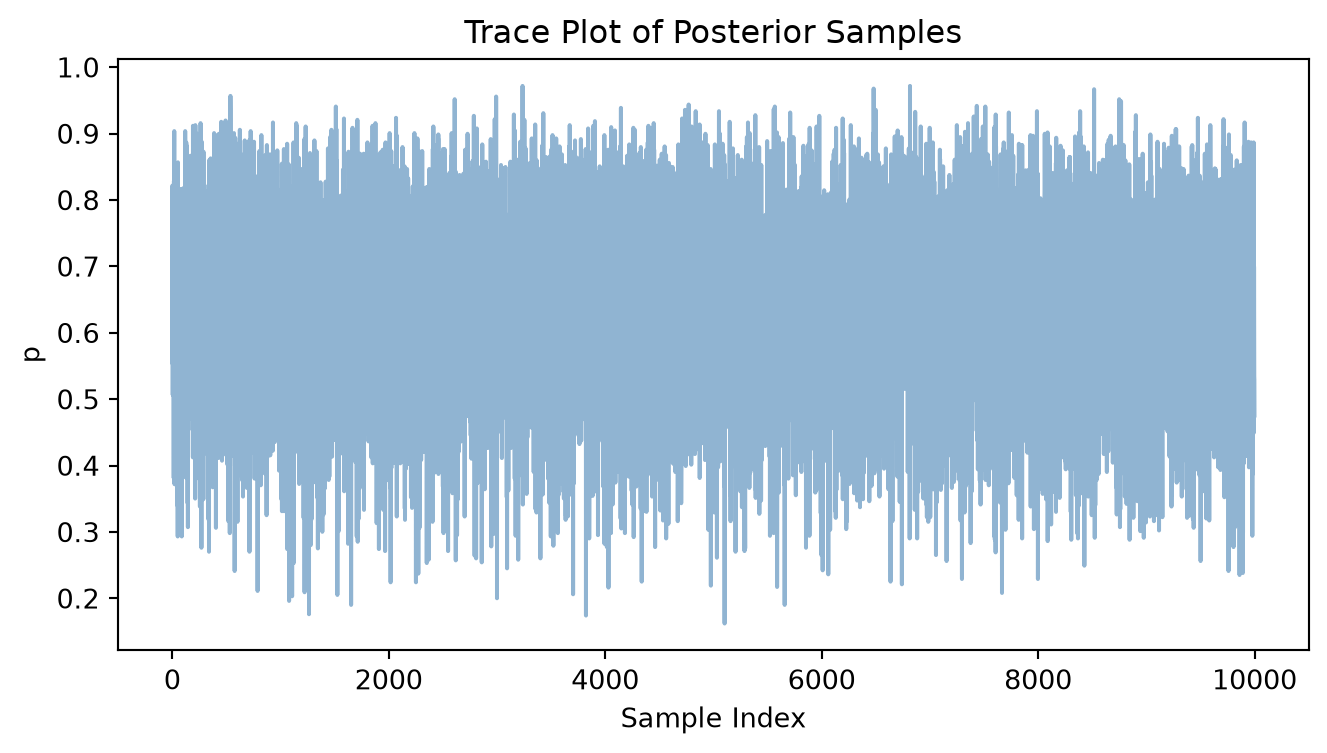
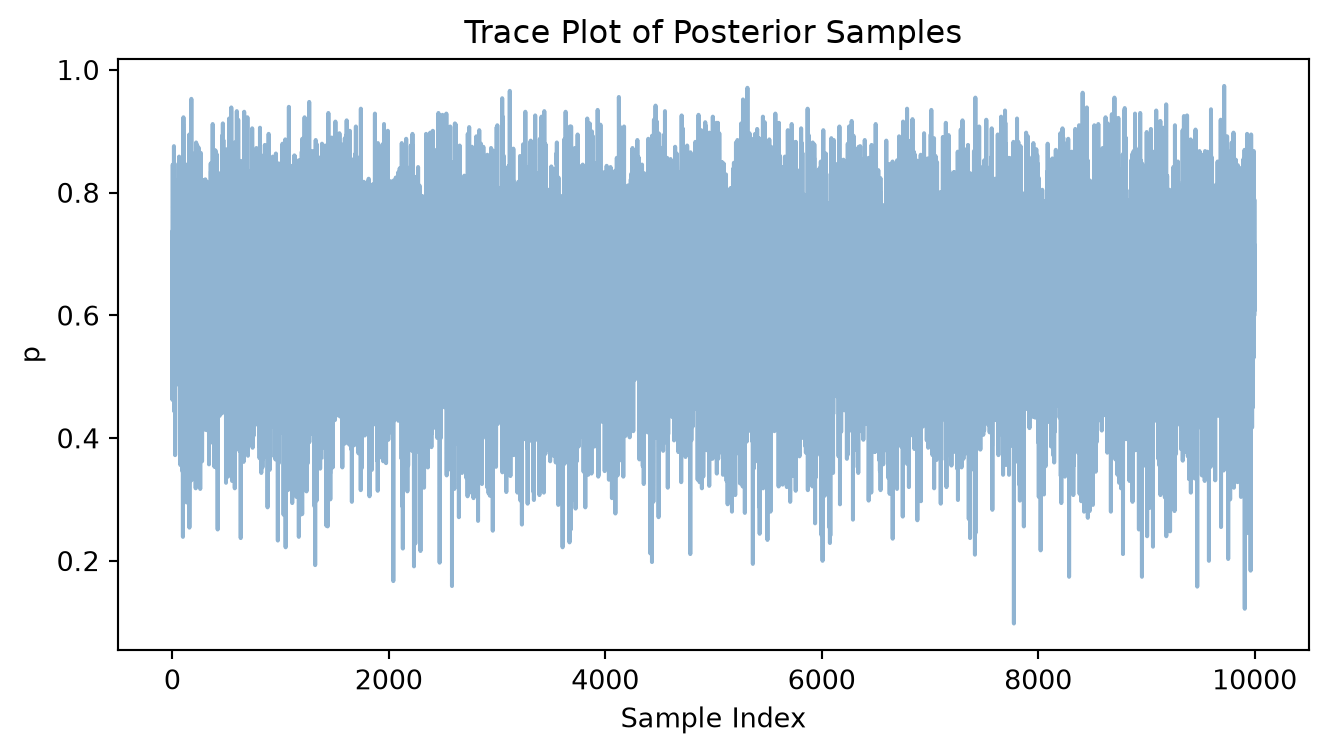
Exercise Updates

diff --git a/docs/lectures/chapter3.html b/docs/lectures/chapter3.html
@@ -326,6 +326,12 @@ window.Quarto = {
  <span class="menu-text">16: The Central Limit Therorem</span></a>
   </div>
 </li>
+          <li class="sidebar-item">
+  <div class="sidebar-item-container"> 
+  <a href="../lectures/conditional_probability_2.html" class="sidebar-item-text sidebar-link">
+ <span class="menu-text">17: Conditional Probability Revisted</span></a>
+  </div>
+</li>
       </ul>
   </li>
         <li class="sidebar-item sidebar-item-section">
@@ -470,7 +476,7 @@ window.Quarto = {
 <section id="section" class="level1">
 <h1>3.1</h1>
 <p>Here is the posterior for the globe tossing example from chapter 2, computed using the grid approximation method:</p>
-<div id="e3135c8b" class="cell" data-execution_count="1">
+<div id="0315c3b8" class="cell" data-execution_count="1">
 <div class="code-copy-outer-scaffold"><div class="sourceCode cell-code" id="cb1"><pre class="sourceCode python code-with-copy"><code class="sourceCode python"><span id="cb1-1"><a href="#cb1-1" aria-hidden="true" tabindex="-1"></a><span class="im">import</span> numpy <span class="im">as</span> np</span>
 <span id="cb1-2"><a href="#cb1-2" aria-hidden="true" tabindex="-1"></a><span class="im">from</span> scipy.stats <span class="im">import</span> binom, gaussian_kde</span>
 <span id="cb1-3"><a href="#cb1-3" aria-hidden="true" tabindex="-1"></a></span>
@@ -484,11 +490,11 @@ window.Quarto = {
 <span id="cb1-11"><a href="#cb1-11" aria-hidden="true" tabindex="-1"></a>posterior <span class="op">=</span> posterior <span class="op">/</span> np.<span class="bu">sum</span>(posterior)</span></code></pre></div><button title="Copy to Clipboard" class="code-copy-button"><i class="bi"></i></button></div>
 </div>
 <p>We can draw 10,000 samples from the posterior distribution using the <code>np.random.choice()</code> function, which allows us to sample from a discrete distribution defined by the posterior probabilities.</p>
-<div id="eb464c57" class="cell" data-execution_count="2">
+<div id="dc9b4af0" class="cell" data-execution_count="2">
 <div class="code-copy-outer-scaffold"><div class="sourceCode cell-code" id="cb2"><pre class="sourceCode python code-with-copy"><code class="sourceCode python"><span id="cb2-1"><a href="#cb2-1" aria-hidden="true" tabindex="-1"></a>samples <span class="op">=</span> np.random.choice(p_grid, size<span class="op">=</span><span class="dv">10000</span>, replace<span class="op">=</span><span class="va">True</span>, p<span class="op">=</span>posterior)</span></code></pre></div><button title="Copy to Clipboard" class="code-copy-button"><i class="bi"></i></button></div>
 </div>
 <p>Plotting the samples gives us:</p>
-<div id="05cc8b23" class="cell" data-execution_count="3">
+<div id="92de81f5" class="cell" data-execution_count="3">
 <div class="code-copy-outer-scaffold"><div class="sourceCode cell-code" id="cb3"><pre class="sourceCode python code-with-copy"><code class="sourceCode python"><span id="cb3-1"><a href="#cb3-1" aria-hidden="true" tabindex="-1"></a><span class="im">import</span> matplotlib.pyplot <span class="im">as</span> plt</span>
 <span id="cb3-2"><a href="#cb3-2" aria-hidden="true" tabindex="-1"></a></span>
 <span id="cb3-3"><a href="#cb3-3" aria-hidden="true" tabindex="-1"></a>plt.figure(figsize<span class="op">=</span>(<span class="dv">8</span>, <span class="dv">4</span>))</span>
@@ -506,7 +512,7 @@ window.Quarto = {
 </div>
 </div>
 <p>To see the shape of our estimated posterior distribution, we can use a kernel density estimate (KDE) to visualize the distribution of the samples:</p>
-<div id="c1591cad" class="cell" data-execution_count="4">
+<div id="ce0f916d" class="cell" data-execution_count="4">
 <div class="code-copy-outer-scaffold"><div class="sourceCode cell-code" id="cb4"><pre class="sourceCode python code-with-copy"><code class="sourceCode python"><span id="cb4-1"><a href="#cb4-1" aria-hidden="true" tabindex="-1"></a><span class="kw">def</span> estimate_posterior_density(samples, grid<span class="op">=</span><span class="va">None</span>):</span>
 <span id="cb4-2"><a href="#cb4-2" aria-hidden="true" tabindex="-1"></a>    <span class="co">"""</span></span>
 <span id="cb4-3"><a href="#cb4-3" aria-hidden="true" tabindex="-1"></a><span class="co">    Estimates the density of posterior samples using Gaussian KDE.</span></span>
@@ -556,7 +562,7 @@ window.Quarto = {
 <section id="easy" class="level2">
 <h2 class="anchored" data-anchor-id="easy">Easy</h2>
 <p>A Python version of the code in the text is:</p>
-<div id="ccb39274" class="cell" data-execution_count="5">
+<div id="6ecf0dbd" class="cell" data-execution_count="5">
 <div class="code-copy-outer-scaffold"><div class="sourceCode cell-code" id="cb5"><pre class="sourceCode python code-with-copy"><code class="sourceCode python"><span id="cb5-1"><a href="#cb5-1" aria-hidden="true" tabindex="-1"></a><span class="im">import</span> numpy <span class="im">as</span> np</span>
 <span id="cb5-2"><a href="#cb5-2" aria-hidden="true" tabindex="-1"></a><span class="im">from</span> scipy.stats <span class="im">import</span> binom</span>
 <span id="cb5-3"><a href="#cb5-3" aria-hidden="true" tabindex="-1"></a></span>
@@ -586,7 +592,7 @@ window.Quarto = {
 <p><br>
 </p>
 <p>With two helper functions to make calculating the questions involving intervals easier:</p>
-<div id="3c382d18" class="cell" data-execution_count="6">
+<div id="a2991b34" class="cell" data-execution_count="6">
 <div class="code-copy-outer-scaffold"><div class="sourceCode cell-code" id="cb6"><pre class="sourceCode python code-with-copy"><code class="sourceCode python"><span id="cb6-1"><a href="#cb6-1" aria-hidden="true" tabindex="-1"></a><span class="kw">def</span> percentile_interval(samples, probability):</span>
 <span id="cb6-2"><a href="#cb6-2" aria-hidden="true" tabindex="-1"></a>    <span class="co">"""</span></span>
 <span id="cb6-3"><a href="#cb6-3" aria-hidden="true" tabindex="-1"></a><span class="co">    Return an equal-tailed posterior interval</span></span>
@@ -675,7 +681,7 @@ Click to show answer
 </summary>
 <p>What we want is <span class="math inline">P(p&lt;0.2\mid W=6)</span>.</p>
 <p>Since our samples are drawn from the posterior, we can estimate this probability by calculating the fraction of samples satisfying <span class="math inline">p&lt;0.2</span>:</p>
-<div id="91d83626" class="cell" data-execution_count="7">
+<div id="34b6d0a3" class="cell" data-execution_count="7">
 <div class="code-copy-outer-scaffold"><div class="sourceCode cell-code" id="cb7"><pre class="sourceCode python code-with-copy"><code class="sourceCode python"><span id="cb7-1"><a href="#cb7-1" aria-hidden="true" tabindex="-1"></a><span class="bu">print</span>(np.mean(samples <span class="op">&lt;</span> <span class="fl">0.2</span>))</span></code></pre></div><button title="Copy to Clipboard" class="code-copy-button"><i class="bi"></i></button></div>
 <div class="cell-output cell-output-stdout">
 <pre><code>0.0013</code></pre>
@@ -696,7 +702,7 @@ Click to show answer
 <summary>
 Click to show answer
 </summary>
-<div id="14f55146" class="cell" data-execution_count="8">
+<div id="f2c6e0ac" class="cell" data-execution_count="8">
 <div class="code-copy-outer-scaffold"><div class="sourceCode cell-code" id="cb9"><pre class="sourceCode python code-with-copy"><code class="sourceCode python"><span id="cb9-1"><a href="#cb9-1" aria-hidden="true" tabindex="-1"></a><span class="bu">print</span>(np.mean(samples <span class="op">&gt;</span> <span class="fl">0.8</span>))</span></code></pre></div><button title="Copy to Clipboard" class="code-copy-button"><i class="bi"></i></button></div>
 <div class="cell-output cell-output-stdout">
 <pre><code>0.1155</code></pre>
@@ -711,14 +717,14 @@ Click to show answer
 Click to show answer
 </summary>
 <p>We have a few ways to approach this problem. Two solutions are using complements:</p>
-<div id="f0081ab7" class="cell" data-execution_count="9">
+<div id="dfa14dec" class="cell" data-execution_count="9">
 <div class="code-copy-outer-scaffold"><div class="sourceCode cell-code" id="cb11"><pre class="sourceCode python code-with-copy"><code class="sourceCode python"><span id="cb11-1"><a href="#cb11-1" aria-hidden="true" tabindex="-1"></a><span class="bu">print</span>(<span class="dv">1</span> <span class="op">-</span> np.mean(samples <span class="op">&gt;</span> <span class="fl">0.8</span>) <span class="op">-</span> np.mean(samples <span class="op">&lt;</span> <span class="fl">0.2</span>))</span></code></pre></div><button title="Copy to Clipboard" class="code-copy-button"><i class="bi"></i></button></div>
 <div class="cell-output cell-output-stdout">
 <pre><code>0.8832</code></pre>
 </div>
 </div>
 <p>Or using a compound expression:</p>
-<div id="273992ad" class="cell" data-execution_count="10">
+<div id="12d987d8" class="cell" data-execution_count="10">
 <div class="code-copy-outer-scaffold"><div class="sourceCode cell-code" id="cb13"><pre class="sourceCode python code-with-copy"><code class="sourceCode python"><span id="cb13-1"><a href="#cb13-1" aria-hidden="true" tabindex="-1"></a><span class="bu">print</span>(np.mean((<span class="fl">0.2</span> <span class="op">&lt;=</span> samples) <span class="op">&amp;</span> (samples <span class="op">&lt;=</span> <span class="fl">0.8</span>)))</span></code></pre></div><button title="Copy to Clipboard" class="code-copy-button"><i class="bi"></i></button></div>
 <div class="cell-output cell-output-stdout">
 <pre><code>0.8832</code></pre>
@@ -732,7 +738,7 @@ Click to show answer
 <summary>
 Click to show answer
 </summary>
-<div id="676cd983" class="cell" data-execution_count="11">
+<div id="b22975be" class="cell" data-execution_count="11">
 <div class="code-copy-outer-scaffold"><div class="sourceCode cell-code" id="cb15"><pre class="sourceCode python code-with-copy"><code class="sourceCode python"><span id="cb15-1"><a href="#cb15-1" aria-hidden="true" tabindex="-1"></a><span class="bu">print</span>(np.quantile(samples, <span class="fl">.20</span>))</span></code></pre></div><button title="Copy to Clipboard" class="code-copy-button"><i class="bi"></i></button></div>
 <div class="cell-output cell-output-stdout">
 <pre><code>0.5175175175175175</code></pre>
@@ -746,7 +752,7 @@ Click to show answer
 <summary>
 Click to show answer
 </summary>
-<div id="bb36ae5a" class="cell" data-execution_count="12">
+<div id="cc4a120c" class="cell" data-execution_count="12">
 <div class="code-copy-outer-scaffold"><div class="sourceCode cell-code" id="cb17"><pre class="sourceCode python code-with-copy"><code class="sourceCode python"><span id="cb17-1"><a href="#cb17-1" aria-hidden="true" tabindex="-1"></a><span class="bu">print</span>(np.quantile(samples, (<span class="dv">1</span><span class="op">-</span><span class="fl">0.2</span>)))</span></code></pre></div><button title="Copy to Clipboard" class="code-copy-button"><i class="bi"></i></button></div>
 <div class="cell-output cell-output-stdout">
 <pre><code>0.7577577577577578</code></pre>
@@ -761,7 +767,7 @@ Click to show answer
 Click to show answer
 </summary>
 <p>Since this is the <strong>narrowest</strong> interval, it has the <strong>highest density</strong>.</p>
-<div id="9fe795c3" class="cell" data-execution_count="13">
+<div id="1df55049" class="cell" data-execution_count="13">
 <div class="code-copy-outer-scaffold"><div class="sourceCode cell-code" id="cb19"><pre class="sourceCode python code-with-copy"><code class="sourceCode python"><span id="cb19-1"><a href="#cb19-1" aria-hidden="true" tabindex="-1"></a><span class="bu">print</span>(hdi(samples, <span class="fl">0.66</span>))</span></code></pre></div><button title="Copy to Clipboard" class="code-copy-button"><i class="bi"></i></button></div>
 <div class="cell-output cell-output-stdout">
 <pre><code>(np.float64(0.5225225225225225), np.float64(0.7907907907907907))</code></pre>
@@ -775,7 +781,7 @@ Click to show answer
 <summary>
 Click to show answer
 </summary>
-<div id="755e5677" class="cell" data-execution_count="14">
+<div id="11496f30" class="cell" data-execution_count="14">
 <div class="code-copy-outer-scaffold"><div class="sourceCode cell-code" id="cb21"><pre class="sourceCode python code-with-copy"><code class="sourceCode python"><span id="cb21-1"><a href="#cb21-1" aria-hidden="true" tabindex="-1"></a><span class="bu">print</span>(percentile_interval(samples, <span class="fl">0.66</span>))</span></code></pre></div><button title="Copy to Clipboard" class="code-copy-button"><i class="bi"></i></button></div>
 <div class="cell-output cell-output-stdout">
 <pre><code>(np.float64(0.4994994994994995), np.float64(0.7717717717717718))</code></pre>
@@ -783,7 +789,7 @@ Click to show answer
 </div>
 <p>Note that the intervals for questions 6 and 7 have different widths with the HDI width being slightly narrower (as expected).</p>
 <p>As the posterior distribution is fairly symmetric, there is not a large difference between the two. We can plot the posterior to see this:</p>
-<div id="4588c768" class="cell" data-execution_count="15">
+<div id="63fd54b2" class="cell" data-execution_count="15">
 <div class="code-copy-outer-scaffold"><div class="sourceCode cell-code" id="cb23"><pre class="sourceCode python code-with-copy"><code class="sourceCode python"><span id="cb23-1"><a href="#cb23-1" aria-hidden="true" tabindex="-1"></a><span class="im">import</span> matplotlib.pyplot <span class="im">as</span> plt</span>
 <span id="cb23-2"><a href="#cb23-2" aria-hidden="true" tabindex="-1"></a></span>
 <span id="cb23-3"><a href="#cb23-3" aria-hidden="true" tabindex="-1"></a>plt.plot(p_grid, (posterior <span class="op">/</span> (p_grid[<span class="dv">1</span>] <span class="op">-</span> p_grid[<span class="dv">0</span>])), label<span class="op">=</span><span class="st">"Grid posterior"</span>)</span>

diff --git a/docs/lectures/conditional_probability_2.html b/docs/lectures/conditional_probability_2.html
@@ -127,9 +127,7 @@ window.Quarto = {
       <button type="button" class="quarto-btn-toggle btn" data-bs-toggle="collapse" role="button" data-bs-target=".quarto-sidebar-collapse-item" aria-controls="quarto-sidebar" aria-expanded="false" aria-label="Toggle sidebar navigation" onclick="if (window.quartoToggleHeadroom) { window.quartoToggleHeadroom(); }">
         <i class="bi bi-layout-text-sidebar-reverse"></i>
       </button>
-        <nav class="quarto-page-breadcrumbs" aria-label="breadcrumb"><ol class="breadcrumb"><li class="breadcrumb-item">
-      Applied Probability
-      </li></ol></nav>
+        <nav class="quarto-page-breadcrumbs" aria-label="breadcrumb"><ol class="breadcrumb"><li class="breadcrumb-item"><a href="../lectures/random_variables.html">Random Variables</a></li><li class="breadcrumb-item"><a href="../lectures/conditional_probability_2.html">17: Conditional Probability Revisted</a></li></ol></nav>
         <a class="flex-grow-1" role="navigation" data-bs-toggle="collapse" data-bs-target=".quarto-sidebar-collapse-item" aria-controls="quarto-sidebar" aria-expanded="false" aria-label="Toggle sidebar navigation" onclick="if (window.quartoToggleHeadroom) { window.quartoToggleHeadroom(); }">      
         </a>
       <button type="button" class="btn quarto-search-button" aria-label="Search" onclick="window.quartoOpenSearch();">
@@ -293,6 +291,12 @@ window.Quarto = {
  <span class="menu-text">16: The Central Limit Therorem</span></a>
   </div>
 </li>
+          <li class="sidebar-item">
+  <div class="sidebar-item-container"> 
+  <a href="../lectures/conditional_probability_2.html" class="sidebar-item-text sidebar-link active">
+ <span class="menu-text">17: Conditional Probability Revisted</span></a>
+  </div>
+</li>
       </ul>
   </li>
         <li class="sidebar-item sidebar-item-section">
@@ -407,7 +411,7 @@ window.Quarto = {
 <!-- main -->
 <main class="content" id="quarto-document-content">
 
-<header id="title-block-header" class="quarto-title-block default">
+<header id="title-block-header" class="quarto-title-block default"><nav class="quarto-page-breadcrumbs quarto-title-breadcrumbs d-none d-lg-block" aria-label="breadcrumb"><ol class="breadcrumb"><li class="breadcrumb-item"><a href="../lectures/random_variables.html">Random Variables</a></li><li class="breadcrumb-item"><a href="../lectures/conditional_probability_2.html">17: Conditional Probability Revisted</a></li></ol></nav>
 <div class="quarto-title">
 <h1 class="title">17: Conditional Probability Revisted</h1>
 </div>

diff --git a/docs/lectures/random_variables.html b/docs/lectures/random_variables.html
@@ -326,6 +326,12 @@ window.Quarto = {
  <span class="menu-text">16: The Central Limit Therorem</span></a>
   </div>
 </li>
+          <li class="sidebar-item">
+  <div class="sidebar-item-container"> 
+  <a href="../lectures/conditional_probability_2.html" class="sidebar-item-text sidebar-link">
+ <span class="menu-text">17: Conditional Probability Revisted</span></a>
+  </div>
+</li>
       </ul>
   </li>
         <li class="sidebar-item sidebar-item-section">
@@ -493,7 +499,7 @@ window.Quarto = {
 <p><span class="math display">F(x) = \begin{cases}  0, &amp; x &lt; 1 \\ \frac{1}{2} = 0.5, &amp; 1 \le x &lt; 2 \\ \frac{1}{2} + \frac{1}{4} = \frac{3}{4} = 0.75, &amp; 2 \le x &lt; 3 \\ 1.0, &amp; x \ge 3  \end{cases}
 </span></p>
 <p>A plot of F(x) is:</p>
-<div id="7ad549f3" class="cell" data-execution_count="1">
+<div id="793b9fcb" class="cell" data-execution_count="1">
 <details class="code-fold">
 <summary>Code</summary>
 <div class="code-copy-outer-scaffold"><div class="sourceCode cell-code" id="cb1"><pre class="sourceCode python code-with-copy"><code class="sourceCode python"><span id="cb1-1"><a href="#cb1-1" aria-hidden="true" tabindex="-1"></a><span class="im">import</span> matplotlib.pyplot <span class="im">as</span> plt</span>

diff --git a/docs/lectures/bounds.html b/docs/lectures/bounds.html
@@ -248,6 +248,12 @@ ul.task-list li input[type="checkbox"] {
  <span class="menu-text">16: The Central Limit Therorem</span></a>
   </div>
 </li>
+          <li class="sidebar-item">
+  <div class="sidebar-item-container"> 
+  <a href="../lectures/conditional_probability_2.html" class="sidebar-item-text sidebar-link">
+ <span class="menu-text">17: Conditional Probability Revisted</span></a>
+  </div>
+</li>
       </ul>
   </li>
         <li class="sidebar-item sidebar-item-section">

diff --git a/docs/lectures/chapter0.html b/docs/lectures/chapter0.html
@@ -248,6 +248,12 @@ ul.task-list li input[type="checkbox"] {
  <span class="menu-text">16: The Central Limit Therorem</span></a>
   </div>
 </li>
+          <li class="sidebar-item">
+  <div class="sidebar-item-container"> 
+  <a href="../lectures/conditional_probability_2.html" class="sidebar-item-text sidebar-link">
+ <span class="menu-text">17: Conditional Probability Revisted</span></a>
+  </div>
+</li>
       </ul>
   </li>
         <li class="sidebar-item sidebar-item-section">

diff --git a/docs/lectures/chapter4.html b/docs/lectures/chapter4.html
@@ -248,6 +248,12 @@ ul.task-list li input[type="checkbox"] {
  <span class="menu-text">16: The Central Limit Therorem</span></a>
   </div>
 </li>
+          <li class="sidebar-item">
+  <div class="sidebar-item-container"> 
+  <a href="../lectures/conditional_probability_2.html" class="sidebar-item-text sidebar-link">
+ <span class="menu-text">17: Conditional Probability Revisted</span></a>
+  </div>
+</li>
       </ul>
   </li>
         <li class="sidebar-item sidebar-item-section">

diff --git a/docs/lectures/chapter5.html b/docs/lectures/chapter5.html
@@ -248,6 +248,12 @@ ul.task-list li input[type="checkbox"] {
  <span class="menu-text">16: The Central Limit Therorem</span></a>
   </div>
 </li>
+          <li class="sidebar-item">
+  <div class="sidebar-item-container"> 
+  <a href="../lectures/conditional_probability_2.html" class="sidebar-item-text sidebar-link">
+ <span class="menu-text">17: Conditional Probability Revisted</span></a>
+  </div>
+</li>
       </ul>
   </li>
         <li class="sidebar-item sidebar-item-section">

diff --git a/docs/lectures/chapter6.html b/docs/lectures/chapter6.html
@@ -248,6 +248,12 @@ ul.task-list li input[type="checkbox"] {
  <span class="menu-text">16: The Central Limit Therorem</span></a>
   </div>
 </li>
+          <li class="sidebar-item">
+  <div class="sidebar-item-container"> 
+  <a href="../lectures/conditional_probability_2.html" class="sidebar-item-text sidebar-link">
+ <span class="menu-text">17: Conditional Probability Revisted</span></a>
+  </div>
+</li>
       </ul>
   </li>
         <li class="sidebar-item sidebar-item-section">

diff --git a/docs/lectures/clt.html b/docs/lectures/clt.html
@@ -248,6 +248,12 @@ ul.task-list li input[type="checkbox"] {
  <span class="menu-text">16: The Central Limit Therorem</span></a>
   </div>
 </li>
+          <li class="sidebar-item">
+  <div class="sidebar-item-container"> 
+  <a href="../lectures/conditional_probability_2.html" class="sidebar-item-text sidebar-link">
+ <span class="menu-text">17: Conditional Probability Revisted</span></a>
+  </div>
+</li>
       </ul>
   </li>
         <li class="sidebar-item sidebar-item-section">

diff --git a/docs/lectures/complex.html b/docs/lectures/complex.html
@@ -248,6 +248,12 @@ ul.task-list li input[type="checkbox"] {
  <span class="menu-text">16: The Central Limit Therorem</span></a>
   </div>
 </li>
+          <li class="sidebar-item">
+  <div class="sidebar-item-container"> 
+  <a href="../lectures/conditional_probability_2.html" class="sidebar-item-text sidebar-link">
+ <span class="menu-text">17: Conditional Probability Revisted</span></a>
+  </div>
+</li>
       </ul>
   </li>
         <li class="sidebar-item sidebar-item-section">

diff --git a/docs/lectures/convolution.html b/docs/lectures/convolution.html
@@ -248,6 +248,12 @@ ul.task-list li input[type="checkbox"] {
  <span class="menu-text">16: The Central Limit Therorem</span></a>
   </div>
 </li>
+          <li class="sidebar-item">
+  <div class="sidebar-item-container"> 
+  <a href="../lectures/conditional_probability_2.html" class="sidebar-item-text sidebar-link">
+ <span class="menu-text">17: Conditional Probability Revisted</span></a>
+  </div>
+</li>
       </ul>
   </li>
         <li class="sidebar-item sidebar-item-section">

diff --git a/docs/lectures/markov_chains.html b/docs/lectures/markov_chains.html
@@ -250,6 +250,12 @@ ul.task-list li input[type="checkbox"] {
  <span class="menu-text">16: The Central Limit Therorem</span></a>
   </div>
 </li>
+          <li class="sidebar-item">
+  <div class="sidebar-item-container"> 
+  <a href="../lectures/conditional_probability_2.html" class="sidebar-item-text sidebar-link">
+ <span class="menu-text">17: Conditional Probability Revisted</span></a>
+  </div>
+</li>
       </ul>
   </li>
         <li class="sidebar-item sidebar-item-section">
